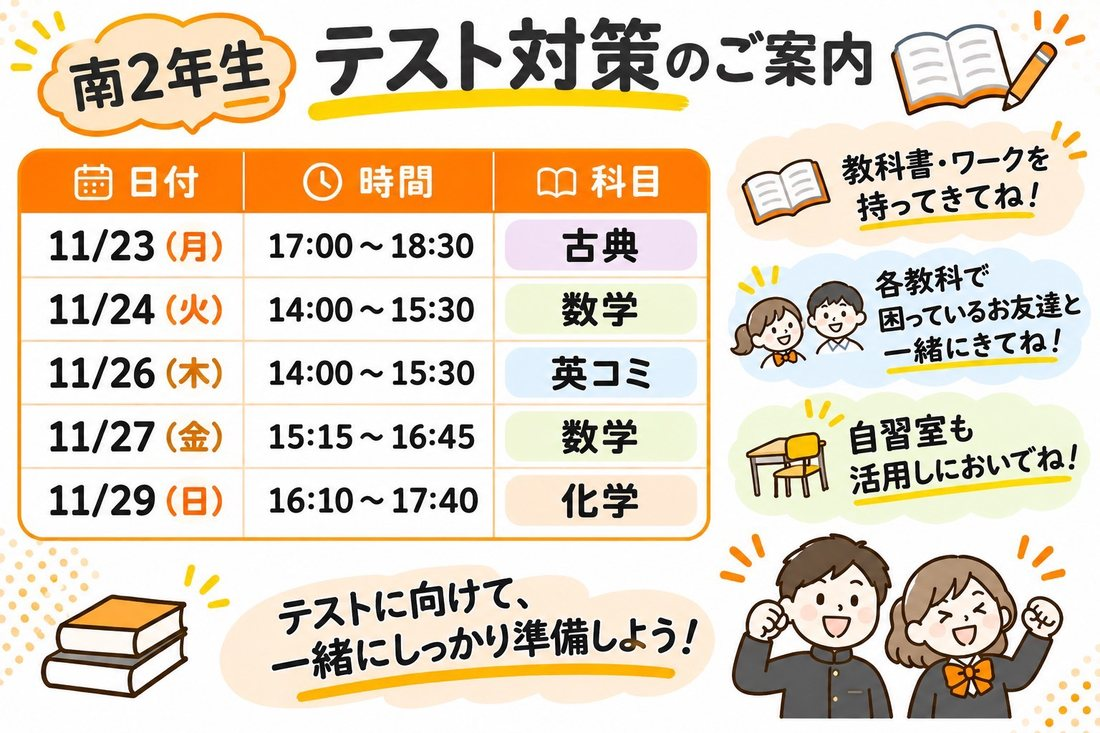
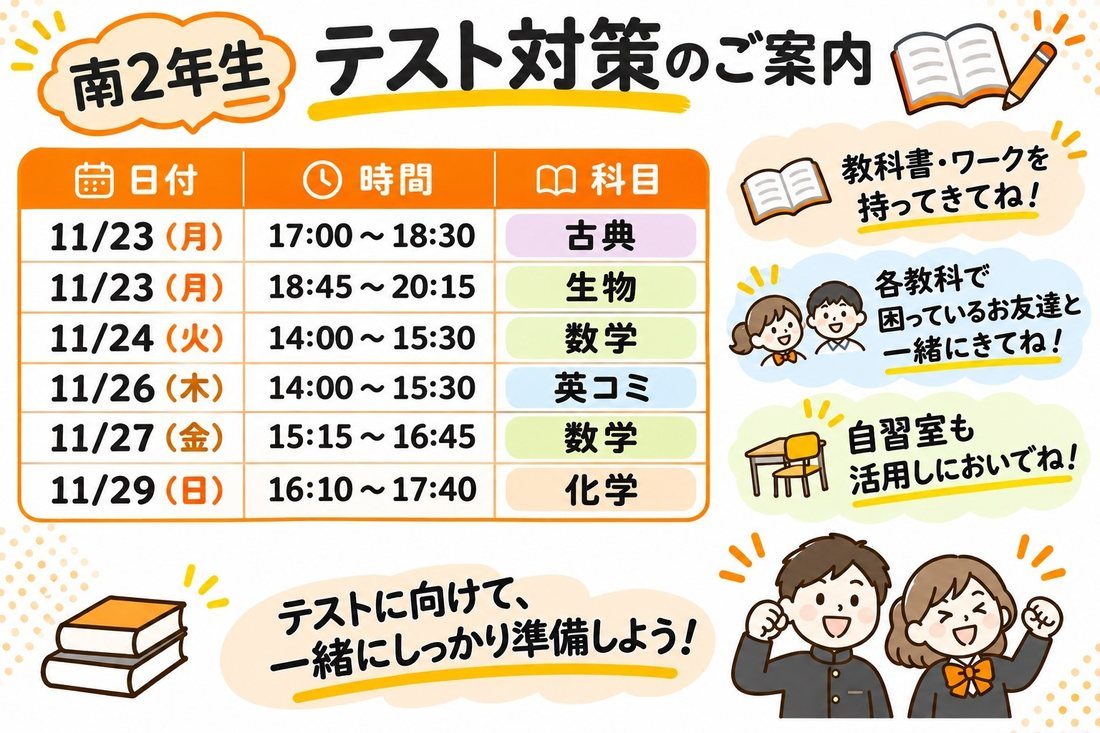
testtaisaku: 南2年の日程を差しかえ（11/23 18:45〜20:15 生物を追加）・画像に ?v=20261121
Claude-Session: https://claude.ai/code/session_018owQgFQp8tbjP1aYZa9Tmk

diff --git a/testtaisaku.html b/testtaisaku.html
@@ -222,7 +222,7 @@ footer p{margin:0 0 6px}
 <p class="sub">学校を<wbr>選んで、<wbr>学年の<wbr>タブを<wbr>押してください。</p>
 <p class="pick-hint" id="pick-hint">▼ あなたの学校は？</p>
 <div class="pick" role="group" aria-label="学校"><button class="sch" type="button" data-s="higashi" aria-pressed="false"><b>東</b><small>松山東高校</small></button><button class="sch" type="button" data-s="minami" aria-pressed="false"><b>南</b><small>松山南高校</small></button><button class="sch" type="button" data-s="kita" aria-pressed="false"><b>北</b><small>松山北高校</small></button><button class="sch" type="button" data-s="chuo" aria-pressed="false"><b>中央</b><small>松山中央高校</small></button><button class="sch" type="button" data-s="nishi" aria-pressed="false"><b>西</b><small>松山西中等教育学校</small></button><button class="sch" type="button" data-s="fuzoku" aria-pressed="false"><b>附属</b><small>愛媛大学附属高校</small></button></div>
-<div class="notebook" id="sc-higashi" data-s="higashi" data-short="東" hidden><p class="school-name"><b>松山東高校</b><span>2学期 期末テスト対策</span></p><p class="snote">全授業90分</p><div class="tabs" role="tablist" aria-label="学年"><button class="tab" role="tab" id="t-higashi-1" aria-controls="p-higashi-1" aria-selected="true" data-grade="1">1年生</button><button class="tab" role="tab" id="t-higashi-2" aria-controls="p-higashi-2" aria-selected="false" data-grade="2">2年生</button></div><div class="panel" role="tabpanel" id="p-higashi-1" aria-labelledby="t-higashi-1"><img src="testtaisaku/higashi_1.jpg" alt="松山東高校 1年生 テスト対策日程。11/21(土) 18:00〜 英コミ、11/25(水) 12:15〜 数学①、11/26(木) 12:15〜 歴史総合、11/26(木) 15:15〜 古典、11/28(土) 16:10〜 論表、11/28(土) 18:00〜 数学②、11/30(月) 17:00〜 化学基礎" width="1100" height="1375" loading="lazy"><details class="txt"><summary>日程を文字で見る</summary><table><tr><th>日付</th><th>時間</th><th>科目</th></tr><tr data-end="2026-11-21T19:30:00+09:00"><td class="d">11/21<span>（土）</span></td><td class="tm">18:00〜</td><td class="sj">英コミ</td></tr><tr data-end="2026-11-25T13:45:00+09:00"><td class="d">11/25<span>（水）</span></td><td class="tm">12:15〜</td><td class="sj">数学①</td></tr><tr data-end="2026-11-26T13:45:00+09:00"><td class="d">11/26<span>（木）</span></td><td class="tm">12:15〜</td><td class="sj">歴史総合</td></tr><tr data-end="2026-11-26T16:45:00+09:00"><td class="d">11/26<span>（木）</span></td><td class="tm">15:15〜</td><td class="sj">古典</td></tr><tr data-end="2026-11-28T17:40:00+09:00"><td class="d">11/28<span>（土）</span></td><td class="tm">16:10〜</td><td class="sj">論表</td></tr><tr data-end="2026-11-28T19:30:00+09:00"><td class="d">11/28<span>（土）</span></td><td class="tm">18:00〜</td><td class="sj">数学②</td></tr><tr data-end="2026-11-30T18:30:00+09:00"><td class="d">11/30<span>（月）</span></td><td class="tm">17:00〜</td><td class="sj">化学基礎</td></tr></table><p class="done-note">灰色は、終わった日程です。</p></details></div><div class="panel" role="tabpanel" id="p-higashi-2" aria-labelledby="t-higashi-2" hidden><img src="testtaisaku/higashi_2.jpg" alt="松山東高校 2年生 テスト対策日程。11/23(月・祝) 18:45〜 化学、11/25(水) 14:00〜 文系数学①、11/25(水) 15:00〜 理系数学①、11/25(水) 20:30〜 世界史、11/27(金) 17:00〜 古典、11/27(金) 18:45〜 理系数学②、11/27(金) 20:30〜 文系数学②、11/28(土) 14:20〜 論表" width="1100" height="1375" loading="lazy"><details class="txt"><summary>日程を文字で見る</summary><table><tr><th>日付</th><th>時間</th><th>科目</th></tr><tr data-end="2026-11-23T20:15:00+09:00"><td class="d">11/23<span>（月・祝）</span></td><td class="tm">18:45〜</td><td class="sj">化学</td></tr><tr data-end="2026-11-25T15:30:00+09:00"><td class="d">11/25<span>（水）</span></td><td class="tm">14:00〜</td><td class="sj">文系数学①</td></tr><tr data-end="2026-11-25T16:30:00+09:00"><td class="d">11/25<span>（水）</span></td><td class="tm">15:00〜</td><td class="sj">理系数学①</td></tr><tr data-end="2026-11-25T22:00:00+09:00"><td class="d">11/25<span>（水）</span></td><td class="tm">20:30〜</td><td class="sj">世界史</td></tr><tr data-end="2026-11-27T18:30:00+09:00"><td class="d">11/27<span>（金）</span></td><td class="tm">17:00〜</td><td class="sj">古典</td></tr><tr data-end="2026-11-27T20:15:00+09:00"><td class="d">11/27<span>（金）</span></td><td class="tm">18:45〜</td><td class="sj">理系数学②</td></tr><tr data-end="2026-11-27T22:00:00+09:00"><td class="d">11/27<span>（金）</span></td><td class="tm">20:30〜</td><td class="sj">文系数学②</td></tr><tr data-end="2026-11-28T15:50:00+09:00"><td class="d">11/28<span>（土）</span></td><td class="tm">14:20〜</td><td class="sj">論表</td></tr></table><p class="done-note">灰色は、終わった日程です。</p></details></div><div class="under"><a class="btn main" href="https://liff.line.me/1654282071-yKj0v7k8/landing?follow=%40354wbuiz&amp;lp=cX2AwV&amp;liff_id=1654282071-yKj0v7k8">この日程で<wbr>参加予約する</a></div></div><div class="notebook" id="sc-minami" data-s="minami" data-short="南" hidden><p class="school-name"><b>松山南高校</b><span>2学期 期末テスト対策</span></p><p class="snote">教科書・ワークを持ってきてください</p><div class="tabs" role="tablist" aria-label="学年"><button class="tab" role="tab" id="t-minami-1" aria-controls="p-minami-1" aria-selected="true" data-grade="1">1年生</button><button class="tab" role="tab" id="t-minami-2" aria-controls="p-minami-2" aria-selected="false" data-grade="2">2年生</button></div><div class="panel" role="tabpanel" id="p-minami-1" aria-labelledby="t-minami-1"><img src="testtaisaku/minami_1.jpg" alt="松山南高校 1年生 テスト対策日程。11/22(日) 12:30〜14:00 歴史総合、11/23(月・祝) 18:45〜20:15 論理表現、11/25(水) 18:45〜20:15 数学、11/28(土) 16:10〜17:40 数学、11/29(日) 14:20〜15:50 化学基礎、11/29(日) 16:10〜17:40 古典" width="1100" height="733" loading="lazy"><details class="txt"><summary>日程を文字で見る</summary><table><tr><th>日付</th><th>時間</th><th>科目</th></tr><tr data-end="2026-11-22T14:00:00+09:00"><td class="d">11/22<span>（日）</span></td><td class="tm">12:30〜14:00</td><td class="sj">歴史総合</td></tr><tr data-end="2026-11-23T20:15:00+09:00"><td class="d">11/23<span>（月・祝）</span></td><td class="tm">18:45〜20:15</td><td class="sj">論理表現</td></tr><tr data-end="2026-11-25T20:15:00+09:00"><td class="d">11/25<span>（水）</span></td><td class="tm">18:45〜20:15</td><td class="sj">数学</td></tr><tr data-end="2026-11-28T17:40:00+09:00"><td class="d">11/28<span>（土）</span></td><td class="tm">16:10〜17:40</td><td class="sj">数学</td></tr><tr data-end="2026-11-29T15:50:00+09:00"><td class="d">11/29<span>（日）</span></td><td class="tm">14:20〜15:50</td><td class="sj">化学基礎</td></tr><tr data-end="2026-11-29T17:40:00+09:00"><td class="d">11/29<span>（日）</span></td><td class="tm">16:10〜17:40</td><td class="sj">古典</td></tr></table><p class="done-note">灰色は、終わった日程です。</p></details></div><div class="panel" role="tabpanel" id="p-minami-2" aria-labelledby="t-minami-2" hidden><img src="testtaisaku/minami_2.jpg" alt="松山南高校 2年生 テスト対策日程。11/23(月・祝) 17:00〜18:30 古典、11/24(火) 14:00〜15:30 数学、11/26(木) 14:00〜15:30 英コミ、11/27(金) 15:15〜16:45 数学、11/29(日) 16:10〜17:40 化学" width="1100" height="733" loading="lazy"><details class="txt"><summary>日程を文字で見る</summary><table><tr><th>日付</th><th>時間</th><th>科目</th></tr><tr data-end="2026-11-23T18:30:00+09:00"><td class="d">11/23<span>（月・祝）</span></td><td class="tm">17:00〜18:30</td><td class="sj">古典</td></tr><tr data-end="2026-11-24T15:30:00+09:00"><td class="d">11/24<span>（火）</span></td><td class="tm">14:00〜15:30</td><td class="sj">数学</td></tr><tr data-end="2026-11-26T15:30:00+09:00"><td class="d">11/26<span>（木）</span></td><td class="tm">14:00〜15:30</td><td class="sj">英コミ</td></tr><tr data-end="2026-11-27T16:45:00+09:00"><td class="d">11/27<span>（金）</span></td><td class="tm">15:15〜16:45</td><td class="sj">数学</td></tr><tr data-end="2026-11-29T17:40:00+09:00"><td class="d">11/29<span>（日）</span></td><td class="tm">16:10〜17:40</td><td class="sj">化学</td></tr></table><p class="done-note">灰色は、終わった日程です。</p></details></div><div class="under"><a class="btn main" href="https://liff.line.me/1654282071-yKj0v7k8/landing?follow=%40354wbuiz&amp;lp=cX2AwV&amp;liff_id=1654282071-yKj0v7k8">この日程で<wbr>参加予約する</a></div></div><div class="notebook" id="sc-kita" data-s="kita" data-short="北" hidden><p class="school-name"><b>松山北高校</b><span>2学期 期末テスト対策</span></p><div class="tabs" role="tablist" aria-label="学年"><button class="tab" role="tab" id="t-kita-1" aria-controls="p-kita-1" aria-selected="true" data-grade="1">1年生</button><button class="tab" role="tab" id="t-kita-2" aria-controls="p-kita-2" aria-selected="false" data-grade="2">2年生</button></div><div class="panel" role="tabpanel" id="p-kita-1" aria-labelledby="t-kita-1"><img src="testtaisaku/kita_1.jpg" alt="松山北高校 1年生 テスト対策日程。11/20(金) 18:45〜 論理表現、11/23(月・祝) 17:00〜18:30 数学、11/24(火) 17:00〜 言語文化、11/25(水) 17:00〜18:30 化学基礎、11/26(木) 15:20〜16:50 数学、11/26(木) 17:00〜 英語コミュニケーション" width="1100" height="1375" loading="lazy"><details class="txt"><summary>日程を文字で見る</summary><table><tr><th>日付</th><th>時間</th><th>科目</th></tr><tr data-end="2026-11-20T20:15:00+09:00"><td class="d">11/20<span>（金）</span></td><td class="tm">18:45〜</td><td class="sj">論理表現</td></tr><tr data-end="2026-11-23T18:30:00+09:00"><td class="d">11/23<span>（月・祝）</span></td><td class="tm">17:00〜18:30</td><td class="sj">数学</td></tr><tr data-end="2026-11-24T18:30:00+09:00"><td class="d">11/24<span>（火）</span></td><td class="tm">17:00〜</td><td class="sj">言語文化</td></tr><tr data-end="2026-11-25T18:30:00+09:00"><td class="d">11/25<span>（水）</span></td><td class="tm">17:00〜18:30</td><td class="sj">化学基礎</td></tr><tr data-end="2026-11-26T16:50:00+09:00"><td class="d">11/26<span>（木）</span></td><td class="tm">15:20〜16:50</td><td class="sj">数学</td></tr><tr data-end="2026-11-26T18:30:00+09:00"><td class="d">11/26<span>（木）</span></td><td class="tm">17:00〜</td><td class="sj">英語コミュニケーション</td></tr></table><p class="done-note">灰色は、終わった日程です。</p></details></div><div class="panel" role="tabpanel" id="p-kita-2" aria-labelledby="t-kita-2" hidden><img src="testtaisaku/kita_2.jpg" alt="松山北高校 2年生 テスト対策日程。11/21(土) 14:20〜15:50 物理（力学）、11/23(月・祝) 17:00〜18:30 古文、11/24(火) 15:15〜16:45 英語、11/24(火) 18:45〜20:15 数学（文系・理系合同）、11/27(金) 17:00〜18:30 化学、11/27(金) 18:45〜20:15 文系数学、11/27(金) 20:30〜22:00 理系数学" width="1100" height="1375" loading="lazy"><details class="txt"><summary>日程を文字で見る</summary><table><tr><th>日付</th><th>時間</th><th>科目</th></tr><tr data-end="2026-11-21T15:50:00+09:00"><td class="d">11/21<span>（土）</span></td><td class="tm">14:20〜15:50</td><td class="sj">物理（力学）</td></tr><tr data-end="2026-11-23T18:30:00+09:00"><td class="d">11/23<span>（月・祝）</span></td><td class="tm">17:00〜18:30</td><td class="sj">古文</td></tr><tr data-end="2026-11-24T16:45:00+09:00"><td class="d">11/24<span>（火）</span></td><td class="tm">15:15〜16:45</td><td class="sj">英語</td></tr><tr data-end="2026-11-24T20:15:00+09:00"><td class="d">11/24<span>（火）</span></td><td class="tm">18:45〜20:15</td><td class="sj">数学（文系・理系合同）</td></tr><tr data-end="2026-11-27T18:30:00+09:00"><td class="d">11/27<span>（金）</span></td><td class="tm">17:00〜18:30</td><td class="sj">化学</td></tr><tr data-end="2026-11-27T20:15:00+09:00"><td class="d">11/27<span>（金）</span></td><td class="tm">18:45〜20:15</td><td class="sj">文系数学</td></tr><tr data-end="2026-11-27T22:00:00+09:00"><td class="d">11/27<span>（金）</span></td><td class="tm">20:30〜22:00</td><td class="sj">理系数学</td></tr></table><p class="done-note">灰色は、終わった日程です。</p></details></div><div class="under"><a class="btn main" href="https://liff.line.me/1654282071-yKj0v7k8/landing?follow=%40354wbuiz&amp;lp=cX2AwV&amp;liff_id=1654282071-yKj0v7k8">この日程で<wbr>参加予約する</a></div></div><div class="notebook" id="sc-chuo" data-s="chuo" data-short="中央" hidden><p class="school-name"><b>松山中央高校</b><span>2学期 期末テスト対策</span></p><p class="snote">2年生は、希望があればテスト対策の追加もあります</p><div class="tabs" role="tablist" aria-label="学年"><button class="tab" role="tab" id="t-chuo-1" aria-controls="p-chuo-1" aria-selected="true" data-grade="1">1年生</button><button class="tab" role="tab" id="t-chuo-2" aria-controls="p-chuo-2" aria-selected="false" data-grade="2">2年生</button></div><div class="panel" role="tabpanel" id="p-chuo-1" aria-labelledby="t-chuo-1"><img src="testtaisaku/chuo_1.jpg" alt="松山中央高校 1年生 テスト対策日程。11/24(火) 17:00〜18:30 数A 石井校、11/25(水) 13:30〜15:00 論表 石井校、11/26(木) 13:30〜15:00 英コミ 石井校、11/28(土) 12:30〜14:00 数Ⅰ 大街道、11/30(月) 16:30〜18:00 化学基礎 石井校" width="1100" height="733" loading="lazy"><details class="txt"><summary>日程を文字で見る</summary><table><tr><th>日付</th><th>時間</th><th>科目</th><th>教室</th></tr><tr data-end="2026-11-24T18:30:00+09:00"><td class="d">11/24<span>（火）</span></td><td class="tm">17:00〜18:30</td><td class="sj">数A</td><td class="pl">石井校</td></tr><tr data-end="2026-11-25T15:00:00+09:00"><td class="d">11/25<span>（水）</span></td><td class="tm">13:30〜15:00</td><td class="sj">論表</td><td class="pl">石井校</td></tr><tr data-end="2026-11-26T15:00:00+09:00"><td class="d">11/26<span>（木）</span></td><td class="tm">13:30〜15:00</td><td class="sj">英コミ</td><td class="pl">石井校</td></tr><tr data-end="2026-11-28T14:00:00+09:00"><td class="d">11/28<span>（土）</span></td><td class="tm">12:30〜14:00</td><td class="sj">数Ⅰ</td><td class="pl">大街道</td></tr><tr data-end="2026-11-30T18:00:00+09:00"><td class="d">11/30<span>（月）</span></td><td class="tm">16:30〜18:00</td><td class="sj">化学基礎</td><td class="pl">石井校</td></tr></table><p class="done-note">灰色は、終わった日程です。</p></details></div><div class="panel" role="tabpanel" id="p-chuo-2" aria-labelledby="t-chuo-2" hidden><img src="testtaisaku/chuo_2.jpg" alt="松山中央高校 2年生 テスト対策日程。11/23(月・祝) 15:15〜16:45 数学B 大街道、11/28(土) 12:30〜14:00 数学Ⅱ 大街道、11/28(土) 14:20〜15:50 化学 大街道、11/30(月) 15:00〜16:30 論理表現 石井校" width="1100" height="733" loading="lazy"><details class="txt"><summary>日程を文字で見る</summary><table><tr><th>日付</th><th>時間</th><th>科目</th><th>教室</th></tr><tr data-end="2026-11-23T16:45:00+09:00"><td class="d">11/23<span>（月・祝）</span></td><td class="tm">15:15〜16:45</td><td class="sj">数学B</td><td class="pl">大街道</td></tr><tr data-end="2026-11-28T14:00:00+09:00"><td class="d">11/28<span>（土）</span></td><td class="tm">12:30〜14:00</td><td class="sj">数学Ⅱ</td><td class="pl">大街道</td></tr><tr data-end="2026-11-28T15:50:00+09:00"><td class="d">11/28<span>（土）</span></td><td class="tm">14:20〜15:50</td><td class="sj">化学</td><td class="pl">大街道</td></tr><tr data-end="2026-11-30T16:30:00+09:00"><td class="d">11/30<span>（月）</span></td><td class="tm">15:00〜16:30</td><td class="sj">論理表現</td><td class="pl">石井校</td></tr></table><p class="done-note">灰色は、終わった日程です。</p></details></div><div class="under"><a class="btn main" href="https://liff.line.me/1654282071-yKj0v7k8/landing?follow=%40354wbuiz&amp;lp=cX2AwV&amp;liff_id=1654282071-yKj0v7k8">この日程で<wbr>参加予約する</a></div></div><div class="notebook" id="sc-nishi" data-s="nishi" data-short="西" hidden><p class="school-name"><b>松山西中等教育学校</b><span>2学期 期末テスト対策</span></p><div class="tabs" role="tablist" aria-label="学年"><button class="tab" role="tab" id="t-nishi-4" aria-controls="p-nishi-4" aria-selected="true" data-grade="4">4年生</button><button class="tab" role="tab" id="t-nishi-5" aria-controls="p-nishi-5" aria-selected="false" data-grade="5">5年生</button></div><div class="panel" role="tabpanel" id="p-nishi-4" aria-labelledby="t-nishi-4"><img src="testtaisaku/nishi_4.jpg" alt="松山西中等教育学校 4年生 テスト対策日程。11/22(日) 12:30〜14:00 数学Ⅱα、11/24(火) 17:00〜18:30 英コミ、11/26(木) 14:00〜15:30 論表、11/28(土) 14:20〜15:50 数学Ⅱβ、11/29(日) 12:30〜14:00 化学基礎、11/30(月) 17:00〜18:30 言語文化" width="1100" height="1204" loading="lazy"><details class="txt"><summary>日程を文字で見る</summary><table><tr><th>日付</th><th>時間</th><th>科目</th></tr><tr data-end="2026-11-22T14:00:00+09:00"><td class="d">11/22<span>（日）</span></td><td class="tm">12:30〜14:00</td><td class="sj">数学Ⅱα</td></tr><tr data-end="2026-11-24T18:30:00+09:00"><td class="d">11/24<span>（火）</span></td><td class="tm">17:00〜18:30</td><td class="sj">英コミ</td></tr><tr data-end="2026-11-26T15:30:00+09:00"><td class="d">11/26<span>（木）</span></td><td class="tm">14:00〜15:30</td><td class="sj">論表</td></tr><tr data-end="2026-11-28T15:50:00+09:00"><td class="d">11/28<span>（土）</span></td><td class="tm">14:20〜15:50</td><td class="sj">数学Ⅱβ</td></tr><tr data-end="2026-11-29T14:00:00+09:00"><td class="d">11/29<span>（日）</span></td><td class="tm">12:30〜14:00</td><td class="sj">化学基礎</td></tr><tr data-end="2026-11-30T18:30:00+09:00"><td class="d">11/30<span>（月）</span></td><td class="tm">17:00〜18:30</td><td class="sj">言語文化</td></tr></table><p class="done-note">灰色は、終わった日程です。</p></details></div><div class="panel" role="tabpanel" id="p-nishi-5" aria-labelledby="t-nishi-5" hidden><img src="testtaisaku/nishi_5.jpg" alt="松山西中等教育学校 5年生 テスト対策日程。11/22(日) 16:10〜17:40 数学Ⅱ、11/26(木) 15:15〜16:45 数学B、11/30(月) 18:45〜20:15 論表" width="1100" height="1204" loading="lazy"><details class="txt"><summary>日程を文字で見る</summary><table><tr><th>日付</th><th>時間</th><th>科目</th></tr><tr data-end="2026-11-22T17:40:00+09:00"><td class="d">11/22<span>（日）</span></td><td class="tm">16:10〜17:40</td><td class="sj">数学Ⅱ</td></tr><tr data-end="2026-11-26T16:45:00+09:00"><td class="d">11/26<span>（木）</span></td><td class="tm">15:15〜16:45</td><td class="sj">数学B</td></tr><tr data-end="2026-11-30T20:15:00+09:00"><td class="d">11/30<span>（月）</span></td><td class="tm">18:45〜20:15</td><td class="sj">論表</td></tr></table><p class="done-note">灰色は、終わった日程です。</p></details></div><div class="under"><a class="btn main" href="https://liff.line.me/1654282071-yKj0v7k8/landing?follow=%40354wbuiz&amp;lp=cX2AwV&amp;liff_id=1654282071-yKj0v7k8">この日程で<wbr>参加予約する</a></div></div><div class="notebook" id="sc-fuzoku" data-s="fuzoku" data-short="附属" hidden><p class="school-name"><b>愛媛大学附属高校</b><span>2学期 期末テスト対策</span></p><div class="tabs" role="tablist" aria-label="学年"><button class="tab" role="tab" id="t-fuzoku-1" aria-controls="p-fuzoku-1" aria-selected="true" data-grade="1">1年生</button><button class="tab" role="tab" id="t-fuzoku-2" aria-controls="p-fuzoku-2" aria-selected="false" data-grade="2">2年生</button></div><div class="panel" role="tabpanel" id="p-fuzoku-1" aria-labelledby="t-fuzoku-1"><img src="testtaisaku/fuzoku_1.jpg" alt="愛媛大学附属高校 1年生 テスト対策日程。11/23(月・祝) 18:45〜20:15 言語文化、11/25(水) 20:30〜22:00 数学Ⅰ、11/26(木) 17:00〜18:30 論理・表現、11/27(金) 14:00〜15:30 化学基礎、11/30(月) 14:00〜15:30 英コミ、11/30(月) 18:45〜20:15 数学A" width="1100" height="1375" loading="lazy"><details class="txt"><summary>日程を文字で見る</summary><table><tr><th>日付</th><th>時間</th><th>科目</th></tr><tr data-end="2026-11-23T20:15:00+09:00"><td class="d">11/23<span>（月・祝）</span></td><td class="tm">18:45〜20:15</td><td class="sj">言語文化</td></tr><tr data-end="2026-11-25T22:00:00+09:00"><td class="d">11/25<span>（水）</span></td><td class="tm">20:30〜22:00</td><td class="sj">数学Ⅰ</td></tr><tr data-end="2026-11-26T18:30:00+09:00"><td class="d">11/26<span>（木）</span></td><td class="tm">17:00〜18:30</td><td class="sj">論理・表現</td></tr><tr data-end="2026-11-27T15:30:00+09:00"><td class="d">11/27<span>（金）</span></td><td class="tm">14:00〜15:30</td><td class="sj">化学基礎</td></tr><tr data-end="2026-11-30T15:30:00+09:00"><td class="d">11/30<span>（月）</span></td><td class="tm">14:00〜15:30</td><td class="sj">英コミ</td></tr><tr data-end="2026-11-30T20:15:00+09:00"><td class="d">11/30<span>（月）</span></td><td class="tm">18:45〜20:15</td><td class="sj">数学A</td></tr></table><p class="done-note">灰色は、終わった日程です。</p></details></div><div class="panel" role="tabpanel" id="p-fuzoku-2" aria-labelledby="t-fuzoku-2" hidden><img src="testtaisaku/fuzoku_2.jpg" alt="愛媛大学附属高校 2年生 テスト対策日程。11/24(火) 18:45〜20:15 古典、11/24(火) 20:30〜22:00 数B、11/25(水) 12:15〜13:45 歴史総合、11/25(水) 14:00〜15:30 化学、11/28(土) 16:10〜17:40 数Ⅱ、11/28(土) 18:00〜19:30 英コミ" width="1100" height="1375" loading="lazy"><details class="txt"><summary>日程を文字で見る</summary><table><tr><th>日付</th><th>時間</th><th>科目</th></tr><tr data-end="2026-11-24T20:15:00+09:00"><td class="d">11/24<span>（火）</span></td><td class="tm">18:45〜20:15</td><td class="sj">古典</td></tr><tr data-end="2026-11-24T22:00:00+09:00"><td class="d">11/24<span>（火）</span></td><td class="tm">20:30〜22:00</td><td class="sj">数B</td></tr><tr data-end="2026-11-25T13:45:00+09:00"><td class="d">11/25<span>（水）</span></td><td class="tm">12:15〜13:45</td><td class="sj">歴史総合</td></tr><tr data-end="2026-11-25T15:30:00+09:00"><td class="d">11/25<span>（水）</span></td><td class="tm">14:00〜15:30</td><td class="sj">化学</td></tr><tr data-end="2026-11-28T17:40:00+09:00"><td class="d">11/28<span>（土）</span></td><td class="tm">16:10〜17:40</td><td class="sj">数Ⅱ</td></tr><tr data-end="2026-11-28T19:30:00+09:00"><td class="d">11/28<span>（土）</span></td><td class="tm">18:00〜19:30</td><td class="sj">英コミ</td></tr></table><p class="done-note">灰色は、終わった日程です。</p></details></div><div class="under"><a class="btn main" href="https://liff.line.me/1654282071-yKj0v7k8/landing?follow=%40354wbuiz&amp;lp=cX2AwV&amp;liff_id=1654282071-yKj0v7k8">この日程で<wbr>参加予約する</a></div></div>
+<div class="notebook" id="sc-higashi" data-s="higashi" data-short="東" hidden><p class="school-name"><b>松山東高校</b><span>2学期 期末テスト対策</span></p><p class="snote">全授業90分</p><div class="tabs" role="tablist" aria-label="学年"><button class="tab" role="tab" id="t-higashi-1" aria-controls="p-higashi-1" aria-selected="true" data-grade="1">1年生</button><button class="tab" role="tab" id="t-higashi-2" aria-controls="p-higashi-2" aria-selected="false" data-grade="2">2年生</button></div><div class="panel" role="tabpanel" id="p-higashi-1" aria-labelledby="t-higashi-1"><img src="testtaisaku/higashi_1.jpg?v=20261121" alt="松山東高校 1年生 テスト対策日程。11/21(土) 18:00〜 英コミ、11/25(水) 12:15〜 数学①、11/26(木) 12:15〜 歴史総合、11/26(木) 15:15〜 古典、11/28(土) 16:10〜 論表、11/28(土) 18:00〜 数学②、11/30(月) 17:00〜 化学基礎" width="1100" height="1375" loading="lazy"><details class="txt"><summary>日程を文字で見る</summary><table><tr><th>日付</th><th>時間</th><th>科目</th></tr><tr data-end="2026-11-21T19:30:00+09:00"><td class="d">11/21<span>（土）</span></td><td class="tm">18:00〜</td><td class="sj">英コミ</td></tr><tr data-end="2026-11-25T13:45:00+09:00"><td class="d">11/25<span>（水）</span></td><td class="tm">12:15〜</td><td class="sj">数学①</td></tr><tr data-end="2026-11-26T13:45:00+09:00"><td class="d">11/26<span>（木）</span></td><td class="tm">12:15〜</td><td class="sj">歴史総合</td></tr><tr data-end="2026-11-26T16:45:00+09:00"><td class="d">11/26<span>（木）</span></td><td class="tm">15:15〜</td><td class="sj">古典</td></tr><tr data-end="2026-11-28T17:40:00+09:00"><td class="d">11/28<span>（土）</span></td><td class="tm">16:10〜</td><td class="sj">論表</td></tr><tr data-end="2026-11-28T19:30:00+09:00"><td class="d">11/28<span>（土）</span></td><td class="tm">18:00〜</td><td class="sj">数学②</td></tr><tr data-end="2026-11-30T18:30:00+09:00"><td class="d">11/30<span>（月）</span></td><td class="tm">17:00〜</td><td class="sj">化学基礎</td></tr></table><p class="done-note">灰色は、終わった日程です。</p></details></div><div class="panel" role="tabpanel" id="p-higashi-2" aria-labelledby="t-higashi-2" hidden><img src="testtaisaku/higashi_2.jpg?v=20261121" alt="松山東高校 2年生 テスト対策日程。11/23(月・祝) 18:45〜 化学、11/25(水) 14:00〜 文系数学①、11/25(水) 15:00〜 理系数学①、11/25(水) 20:30〜 世界史、11/27(金) 17:00〜 古典、11/27(金) 18:45〜 理系数学②、11/27(金) 20:30〜 文系数学②、11/28(土) 14:20〜 論表" width="1100" height="1375" loading="lazy"><details class="txt"><summary>日程を文字で見る</summary><table><tr><th>日付</th><th>時間</th><th>科目</th></tr><tr data-end="2026-11-23T20:15:00+09:00"><td class="d">11/23<span>（月・祝）</span></td><td class="tm">18:45〜</td><td class="sj">化学</td></tr><tr data-end="2026-11-25T15:30:00+09:00"><td class="d">11/25<span>（水）</span></td><td class="tm">14:00〜</td><td class="sj">文系数学①</td></tr><tr data-end="2026-11-25T16:30:00+09:00"><td class="d">11/25<span>（水）</span></td><td class="tm">15:00〜</td><td class="sj">理系数学①</td></tr><tr data-end="2026-11-25T22:00:00+09:00"><td class="d">11/25<span>（水）</span></td><td class="tm">20:30〜</td><td class="sj">世界史</td></tr><tr data-end="2026-11-27T18:30:00+09:00"><td class="d">11/27<span>（金）</span></td><td class="tm">17:00〜</td><td class="sj">古典</td></tr><tr data-end="2026-11-27T20:15:00+09:00"><td class="d">11/27<span>（金）</span></td><td class="tm">18:45〜</td><td class="sj">理系数学②</td></tr><tr data-end="2026-11-27T22:00:00+09:00"><td class="d">11/27<span>（金）</span></td><td class="tm">20:30〜</td><td class="sj">文系数学②</td></tr><tr data-end="2026-11-28T15:50:00+09:00"><td class="d">11/28<span>（土）</span></td><td class="tm">14:20〜</td><td class="sj">論表</td></tr></table><p class="done-note">灰色は、終わった日程です。</p></details></div><div class="under"><a class="btn main" href="https://liff.line.me/1654282071-yKj0v7k8/landing?follow=%40354wbuiz&amp;lp=cX2AwV&amp;liff_id=1654282071-yKj0v7k8">この日程で<wbr>参加予約する</a></div></div><div class="notebook" id="sc-minami" data-s="minami" data-short="南" hidden><p class="school-name"><b>松山南高校</b><span>2学期 期末テスト対策</span></p><p class="snote">教科書・ワークを持ってきてください</p><div class="tabs" role="tablist" aria-label="学年"><button class="tab" role="tab" id="t-minami-1" aria-controls="p-minami-1" aria-selected="true" data-grade="1">1年生</button><button class="tab" role="tab" id="t-minami-2" aria-controls="p-minami-2" aria-selected="false" data-grade="2">2年生</button></div><div class="panel" role="tabpanel" id="p-minami-1" aria-labelledby="t-minami-1"><img src="testtaisaku/minami_1.jpg?v=20261121" alt="松山南高校 1年生 テスト対策日程。11/22(日) 12:30〜14:00 歴史総合、11/23(月・祝) 18:45〜20:15 論理表現、11/25(水) 18:45〜20:15 数学、11/28(土) 16:10〜17:40 数学、11/29(日) 14:20〜15:50 化学基礎、11/29(日) 16:10〜17:40 古典" width="1100" height="733" loading="lazy"><details class="txt"><summary>日程を文字で見る</summary><table><tr><th>日付</th><th>時間</th><th>科目</th></tr><tr data-end="2026-11-22T14:00:00+09:00"><td class="d">11/22<span>（日）</span></td><td class="tm">12:30〜14:00</td><td class="sj">歴史総合</td></tr><tr data-end="2026-11-23T20:15:00+09:00"><td class="d">11/23<span>（月・祝）</span></td><td class="tm">18:45〜20:15</td><td class="sj">論理表現</td></tr><tr data-end="2026-11-25T20:15:00+09:00"><td class="d">11/25<span>（水）</span></td><td class="tm">18:45〜20:15</td><td class="sj">数学</td></tr><tr data-end="2026-11-28T17:40:00+09:00"><td class="d">11/28<span>（土）</span></td><td class="tm">16:10〜17:40</td><td class="sj">数学</td></tr><tr data-end="2026-11-29T15:50:00+09:00"><td class="d">11/29<span>（日）</span></td><td class="tm">14:20〜15:50</td><td class="sj">化学基礎</td></tr><tr data-end="2026-11-29T17:40:00+09:00"><td class="d">11/29<span>（日）</span></td><td class="tm">16:10〜17:40</td><td class="sj">古典</td></tr></table><p class="done-note">灰色は、終わった日程です。</p></details></div><div class="panel" role="tabpanel" id="p-minami-2" aria-labelledby="t-minami-2" hidden><img src="testtaisaku/minami_2.jpg?v=20261121" alt="松山南高校 2年生 テスト対策日程。11/23(月・祝) 17:00〜18:30 古典、11/23(月・祝) 18:45〜20:15 生物、11/24(火) 14:00〜15:30 数学、11/26(木) 14:00〜15:30 英コミ、11/27(金) 15:15〜16:45 数学、11/29(日) 16:10〜17:40 化学" width="1100" height="733" loading="lazy"><details class="txt"><summary>日程を文字で見る</summary><table><tr><th>日付</th><th>時間</th><th>科目</th></tr><tr data-end="2026-11-23T18:30:00+09:00"><td class="d">11/23<span>（月・祝）</span></td><td class="tm">17:00〜18:30</td><td class="sj">古典</td></tr><tr data-end="2026-11-23T20:15:00+09:00"><td class="d">11/23<span>（月・祝）</span></td><td class="tm">18:45〜20:15</td><td class="sj">生物</td></tr><tr data-end="2026-11-24T15:30:00+09:00"><td class="d">11/24<span>（火）</span></td><td class="tm">14:00〜15:30</td><td class="sj">数学</td></tr><tr data-end="2026-11-26T15:30:00+09:00"><td class="d">11/26<span>（木）</span></td><td class="tm">14:00〜15:30</td><td class="sj">英コミ</td></tr><tr data-end="2026-11-27T16:45:00+09:00"><td class="d">11/27<span>（金）</span></td><td class="tm">15:15〜16:45</td><td class="sj">数学</td></tr><tr data-end="2026-11-29T17:40:00+09:00"><td class="d">11/29<span>（日）</span></td><td class="tm">16:10〜17:40</td><td class="sj">化学</td></tr></table><p class="done-note">灰色は、終わった日程です。</p></details></div><div class="under"><a class="btn main" href="https://liff.line.me/1654282071-yKj0v7k8/landing?follow=%40354wbuiz&amp;lp=cX2AwV&amp;liff_id=1654282071-yKj0v7k8">この日程で<wbr>参加予約する</a></div></div><div class="notebook" id="sc-kita" data-s="kita" data-short="北" hidden><p class="school-name"><b>松山北高校</b><span>2学期 期末テスト対策</span></p><div class="tabs" role="tablist" aria-label="学年"><button class="tab" role="tab" id="t-kita-1" aria-controls="p-kita-1" aria-selected="true" data-grade="1">1年生</button><button class="tab" role="tab" id="t-kita-2" aria-controls="p-kita-2" aria-selected="false" data-grade="2">2年生</button></div><div class="panel" role="tabpanel" id="p-kita-1" aria-labelledby="t-kita-1"><img src="testtaisaku/kita_1.jpg?v=20261121" alt="松山北高校 1年生 テスト対策日程。11/20(金) 18:45〜 論理表現、11/23(月・祝) 17:00〜18:30 数学、11/24(火) 17:00〜 言語文化、11/25(水) 17:00〜18:30 化学基礎、11/26(木) 15:20〜16:50 数学、11/26(木) 17:00〜 英語コミュニケーション" width="1100" height="1375" loading="lazy"><details class="txt"><summary>日程を文字で見る</summary><table><tr><th>日付</th><th>時間</th><th>科目</th></tr><tr data-end="2026-11-20T20:15:00+09:00"><td class="d">11/20<span>（金）</span></td><td class="tm">18:45〜</td><td class="sj">論理表現</td></tr><tr data-end="2026-11-23T18:30:00+09:00"><td class="d">11/23<span>（月・祝）</span></td><td class="tm">17:00〜18:30</td><td class="sj">数学</td></tr><tr data-end="2026-11-24T18:30:00+09:00"><td class="d">11/24<span>（火）</span></td><td class="tm">17:00〜</td><td class="sj">言語文化</td></tr><tr data-end="2026-11-25T18:30:00+09:00"><td class="d">11/25<span>（水）</span></td><td class="tm">17:00〜18:30</td><td class="sj">化学基礎</td></tr><tr data-end="2026-11-26T16:50:00+09:00"><td class="d">11/26<span>（木）</span></td><td class="tm">15:20〜16:50</td><td class="sj">数学</td></tr><tr data-end="2026-11-26T18:30:00+09:00"><td class="d">11/26<span>（木）</span></td><td class="tm">17:00〜</td><td class="sj">英語コミュニケーション</td></tr></table><p class="done-note">灰色は、終わった日程です。</p></details></div><div class="panel" role="tabpanel" id="p-kita-2" aria-labelledby="t-kita-2" hidden><img src="testtaisaku/kita_2.jpg?v=20261121" alt="松山北高校 2年生 テスト対策日程。11/21(土) 14:20〜15:50 物理（力学）、11/23(月・祝) 17:00〜18:30 古文、11/24(火) 15:15〜16:45 英語、11/24(火) 18:45〜20:15 数学（文系・理系合同）、11/27(金) 17:00〜18:30 化学、11/27(金) 18:45〜20:15 文系数学、11/27(金) 20:30〜22:00 理系数学" width="1100" height="1375" loading="lazy"><details class="txt"><summary>日程を文字で見る</summary><table><tr><th>日付</th><th>時間</th><th>科目</th></tr><tr data-end="2026-11-21T15:50:00+09:00"><td class="d">11/21<span>（土）</span></td><td class="tm">14:20〜15:50</td><td class="sj">物理（力学）</td></tr><tr data-end="2026-11-23T18:30:00+09:00"><td class="d">11/23<span>（月・祝）</span></td><td class="tm">17:00〜18:30</td><td class="sj">古文</td></tr><tr data-end="2026-11-24T16:45:00+09:00"><td class="d">11/24<span>（火）</span></td><td class="tm">15:15〜16:45</td><td class="sj">英語</td></tr><tr data-end="2026-11-24T20:15:00+09:00"><td class="d">11/24<span>（火）</span></td><td class="tm">18:45〜20:15</td><td class="sj">数学（文系・理系合同）</td></tr><tr data-end="2026-11-27T18:30:00+09:00"><td class="d">11/27<span>（金）</span></td><td class="tm">17:00〜18:30</td><td class="sj">化学</td></tr><tr data-end="2026-11-27T20:15:00+09:00"><td class="d">11/27<span>（金）</span></td><td class="tm">18:45〜20:15</td><td class="sj">文系数学</td></tr><tr data-end="2026-11-27T22:00:00+09:00"><td class="d">11/27<span>（金）</span></td><td class="tm">20:30〜22:00</td><td class="sj">理系数学</td></tr></table><p class="done-note">灰色は、終わった日程です。</p></details></div><div class="under"><a class="btn main" href="https://liff.line.me/1654282071-yKj0v7k8/landing?follow=%40354wbuiz&amp;lp=cX2AwV&amp;liff_id=1654282071-yKj0v7k8">この日程で<wbr>参加予約する</a></div></div><div class="notebook" id="sc-chuo" data-s="chuo" data-short="中央" hidden><p class="school-name"><b>松山中央高校</b><span>2学期 期末テスト対策</span></p><p class="snote">2年生は、希望があればテスト対策の追加もあります</p><div class="tabs" role="tablist" aria-label="学年"><button class="tab" role="tab" id="t-chuo-1" aria-controls="p-chuo-1" aria-selected="true" data-grade="1">1年生</button><button class="tab" role="tab" id="t-chuo-2" aria-controls="p-chuo-2" aria-selected="false" data-grade="2">2年生</button></div><div class="panel" role="tabpanel" id="p-chuo-1" aria-labelledby="t-chuo-1"><img src="testtaisaku/chuo_1.jpg?v=20261121" alt="松山中央高校 1年生 テスト対策日程。11/24(火) 17:00〜18:30 数A 石井校、11/25(水) 13:30〜15:00 論表 石井校、11/26(木) 13:30〜15:00 英コミ 石井校、11/28(土) 12:30〜14:00 数Ⅰ 大街道、11/30(月) 16:30〜18:00 化学基礎 石井校" width="1100" height="733" loading="lazy"><details class="txt"><summary>日程を文字で見る</summary><table><tr><th>日付</th><th>時間</th><th>科目</th><th>教室</th></tr><tr data-end="2026-11-24T18:30:00+09:00"><td class="d">11/24<span>（火）</span></td><td class="tm">17:00〜18:30</td><td class="sj">数A</td><td class="pl">石井校</td></tr><tr data-end="2026-11-25T15:00:00+09:00"><td class="d">11/25<span>（水）</span></td><td class="tm">13:30〜15:00</td><td class="sj">論表</td><td class="pl">石井校</td></tr><tr data-end="2026-11-26T15:00:00+09:00"><td class="d">11/26<span>（木）</span></td><td class="tm">13:30〜15:00</td><td class="sj">英コミ</td><td class="pl">石井校</td></tr><tr data-end="2026-11-28T14:00:00+09:00"><td class="d">11/28<span>（土）</span></td><td class="tm">12:30〜14:00</td><td class="sj">数Ⅰ</td><td class="pl">大街道</td></tr><tr data-end="2026-11-30T18:00:00+09:00"><td class="d">11/30<span>（月）</span></td><td class="tm">16:30〜18:00</td><td class="sj">化学基礎</td><td class="pl">石井校</td></tr></table><p class="done-note">灰色は、終わった日程です。</p></details></div><div class="panel" role="tabpanel" id="p-chuo-2" aria-labelledby="t-chuo-2" hidden><img src="testtaisaku/chuo_2.jpg?v=20261121" alt="松山中央高校 2年生 テスト対策日程。11/23(月・祝) 15:15〜16:45 数学B 大街道、11/28(土) 12:30〜14:00 数学Ⅱ 大街道、11/28(土) 14:20〜15:50 化学 大街道、11/30(月) 15:00〜16:30 論理表現 石井校" width="1100" height="733" loading="lazy"><details class="txt"><summary>日程を文字で見る</summary><table><tr><th>日付</th><th>時間</th><th>科目</th><th>教室</th></tr><tr data-end="2026-11-23T16:45:00+09:00"><td class="d">11/23<span>（月・祝）</span></td><td class="tm">15:15〜16:45</td><td class="sj">数学B</td><td class="pl">大街道</td></tr><tr data-end="2026-11-28T14:00:00+09:00"><td class="d">11/28<span>（土）</span></td><td class="tm">12:30〜14:00</td><td class="sj">数学Ⅱ</td><td class="pl">大街道</td></tr><tr data-end="2026-11-28T15:50:00+09:00"><td class="d">11/28<span>（土）</span></td><td class="tm">14:20〜15:50</td><td class="sj">化学</td><td class="pl">大街道</td></tr><tr data-end="2026-11-30T16:30:00+09:00"><td class="d">11/30<span>（月）</span></td><td class="tm">15:00〜16:30</td><td class="sj">論理表現</td><td class="pl">石井校</td></tr></table><p class="done-note">灰色は、終わった日程です。</p></details></div><div class="under"><a class="btn main" href="https://liff.line.me/1654282071-yKj0v7k8/landing?follow=%40354wbuiz&amp;lp=cX2AwV&amp;liff_id=1654282071-yKj0v7k8">この日程で<wbr>参加予約する</a></div></div><div class="notebook" id="sc-nishi" data-s="nishi" data-short="西" hidden><p class="school-name"><b>松山西中等教育学校</b><span>2学期 期末テスト対策</span></p><div class="tabs" role="tablist" aria-label="学年"><button class="tab" role="tab" id="t-nishi-4" aria-controls="p-nishi-4" aria-selected="true" data-grade="4">4年生</button><button class="tab" role="tab" id="t-nishi-5" aria-controls="p-nishi-5" aria-selected="false" data-grade="5">5年生</button></div><div class="panel" role="tabpanel" id="p-nishi-4" aria-labelledby="t-nishi-4"><img src="testtaisaku/nishi_4.jpg?v=20261121" alt="松山西中等教育学校 4年生 テスト対策日程。11/22(日) 12:30〜14:00 数学Ⅱα、11/24(火) 17:00〜18:30 英コミ、11/26(木) 14:00〜15:30 論表、11/28(土) 14:20〜15:50 数学Ⅱβ、11/29(日) 12:30〜14:00 化学基礎、11/30(月) 17:00〜18:30 言語文化" width="1100" height="1204" loading="lazy"><details class="txt"><summary>日程を文字で見る</summary><table><tr><th>日付</th><th>時間</th><th>科目</th></tr><tr data-end="2026-11-22T14:00:00+09:00"><td class="d">11/22<span>（日）</span></td><td class="tm">12:30〜14:00</td><td class="sj">数学Ⅱα</td></tr><tr data-end="2026-11-24T18:30:00+09:00"><td class="d">11/24<span>（火）</span></td><td class="tm">17:00〜18:30</td><td class="sj">英コミ</td></tr><tr data-end="2026-11-26T15:30:00+09:00"><td class="d">11/26<span>（木）</span></td><td class="tm">14:00〜15:30</td><td class="sj">論表</td></tr><tr data-end="2026-11-28T15:50:00+09:00"><td class="d">11/28<span>（土）</span></td><td class="tm">14:20〜15:50</td><td class="sj">数学Ⅱβ</td></tr><tr data-end="2026-11-29T14:00:00+09:00"><td class="d">11/29<span>（日）</span></td><td class="tm">12:30〜14:00</td><td class="sj">化学基礎</td></tr><tr data-end="2026-11-30T18:30:00+09:00"><td class="d">11/30<span>（月）</span></td><td class="tm">17:00〜18:30</td><td class="sj">言語文化</td></tr></table><p class="done-note">灰色は、終わった日程です。</p></details></div><div class="panel" role="tabpanel" id="p-nishi-5" aria-labelledby="t-nishi-5" hidden><img src="testtaisaku/nishi_5.jpg?v=20261121" alt="松山西中等教育学校 5年生 テスト対策日程。11/22(日) 16:10〜17:40 数学Ⅱ、11/26(木) 15:15〜16:45 数学B、11/30(月) 18:45〜20:15 論表" width="1100" height="1204" loading="lazy"><details class="txt"><summary>日程を文字で見る</summary><table><tr><th>日付</th><th>時間</th><th>科目</th></tr><tr data-end="2026-11-22T17:40:00+09:00"><td class="d">11/22<span>（日）</span></td><td class="tm">16:10〜17:40</td><td class="sj">数学Ⅱ</td></tr><tr data-end="2026-11-26T16:45:00+09:00"><td class="d">11/26<span>（木）</span></td><td class="tm">15:15〜16:45</td><td class="sj">数学B</td></tr><tr data-end="2026-11-30T20:15:00+09:00"><td class="d">11/30<span>（月）</span></td><td class="tm">18:45〜20:15</td><td class="sj">論表</td></tr></table><p class="done-note">灰色は、終わった日程です。</p></details></div><div class="under"><a class="btn main" href="https://liff.line.me/1654282071-yKj0v7k8/landing?follow=%40354wbuiz&amp;lp=cX2AwV&amp;liff_id=1654282071-yKj0v7k8">この日程で<wbr>参加予約する</a></div></div><div class="notebook" id="sc-fuzoku" data-s="fuzoku" data-short="附属" hidden><p class="school-name"><b>愛媛大学附属高校</b><span>2学期 期末テスト対策</span></p><div class="tabs" role="tablist" aria-label="学年"><button class="tab" role="tab" id="t-fuzoku-1" aria-controls="p-fuzoku-1" aria-selected="true" data-grade="1">1年生</button><button class="tab" role="tab" id="t-fuzoku-2" aria-controls="p-fuzoku-2" aria-selected="false" data-grade="2">2年生</button></div><div class="panel" role="tabpanel" id="p-fuzoku-1" aria-labelledby="t-fuzoku-1"><img src="testtaisaku/fuzoku_1.jpg?v=20261121" alt="愛媛大学附属高校 1年生 テスト対策日程。11/23(月・祝) 18:45〜20:15 言語文化、11/25(水) 20:30〜22:00 数学Ⅰ、11/26(木) 17:00〜18:30 論理・表現、11/27(金) 14:00〜15:30 化学基礎、11/30(月) 14:00〜15:30 英コミ、11/30(月) 18:45〜20:15 数学A" width="1100" height="1375" loading="lazy"><details class="txt"><summary>日程を文字で見る</summary><table><tr><th>日付</th><th>時間</th><th>科目</th></tr><tr data-end="2026-11-23T20:15:00+09:00"><td class="d">11/23<span>（月・祝）</span></td><td class="tm">18:45〜20:15</td><td class="sj">言語文化</td></tr><tr data-end="2026-11-25T22:00:00+09:00"><td class="d">11/25<span>（水）</span></td><td class="tm">20:30〜22:00</td><td class="sj">数学Ⅰ</td></tr><tr data-end="2026-11-26T18:30:00+09:00"><td class="d">11/26<span>（木）</span></td><td class="tm">17:00〜18:30</td><td class="sj">論理・表現</td></tr><tr data-end="2026-11-27T15:30:00+09:00"><td class="d">11/27<span>（金）</span></td><td class="tm">14:00〜15:30</td><td class="sj">化学基礎</td></tr><tr data-end="2026-11-30T15:30:00+09:00"><td class="d">11/30<span>（月）</span></td><td class="tm">14:00〜15:30</td><td class="sj">英コミ</td></tr><tr data-end="2026-11-30T20:15:00+09:00"><td class="d">11/30<span>（月）</span></td><td class="tm">18:45〜20:15</td><td class="sj">数学A</td></tr></table><p class="done-note">灰色は、終わった日程です。</p></details></div><div class="panel" role="tabpanel" id="p-fuzoku-2" aria-labelledby="t-fuzoku-2" hidden><img src="testtaisaku/fuzoku_2.jpg?v=20261121" alt="愛媛大学附属高校 2年生 テスト対策日程。11/24(火) 18:45〜20:15 古典、11/24(火) 20:30〜22:00 数B、11/25(水) 12:15〜13:45 歴史総合、11/25(水) 14:00〜15:30 化学、11/28(土) 16:10〜17:40 数Ⅱ、11/28(土) 18:00〜19:30 英コミ" width="1100" height="1375" loading="lazy"><details class="txt"><summary>日程を文字で見る</summary><table><tr><th>日付</th><th>時間</th><th>科目</th></tr><tr data-end="2026-11-24T20:15:00+09:00"><td class="d">11/24<span>（火）</span></td><td class="tm">18:45〜20:15</td><td class="sj">古典</td></tr><tr data-end="2026-11-24T22:00:00+09:00"><td class="d">11/24<span>（火）</span></td><td class="tm">20:30〜22:00</td><td class="sj">数B</td></tr><tr data-end="2026-11-25T13:45:00+09:00"><td class="d">11/25<span>（水）</span></td><td class="tm">12:15〜13:45</td><td class="sj">歴史総合</td></tr><tr data-end="2026-11-25T15:30:00+09:00"><td class="d">11/25<span>（水）</span></td><td class="tm">14:00〜15:30</td><td class="sj">化学</td></tr><tr data-end="2026-11-28T17:40:00+09:00"><td class="d">11/28<span>（土）</span></td><td class="tm">16:10〜17:40</td><td class="sj">数Ⅱ</td></tr><tr data-end="2026-11-28T19:30:00+09:00"><td class="d">11/28<span>（土）</span></td><td class="tm">18:00〜19:30</td><td class="sj">英コミ</td></tr></table><p class="done-note">灰色は、終わった日程です。</p></details></div><div class="under"><a class="btn main" href="https://liff.line.me/1654282071-yKj0v7k8/landing?follow=%40354wbuiz&amp;lp=cX2AwV&amp;liff_id=1654282071-yKj0v7k8">この日程で<wbr>参加予約する</a></div></div>
 </div>
 </section>
 
